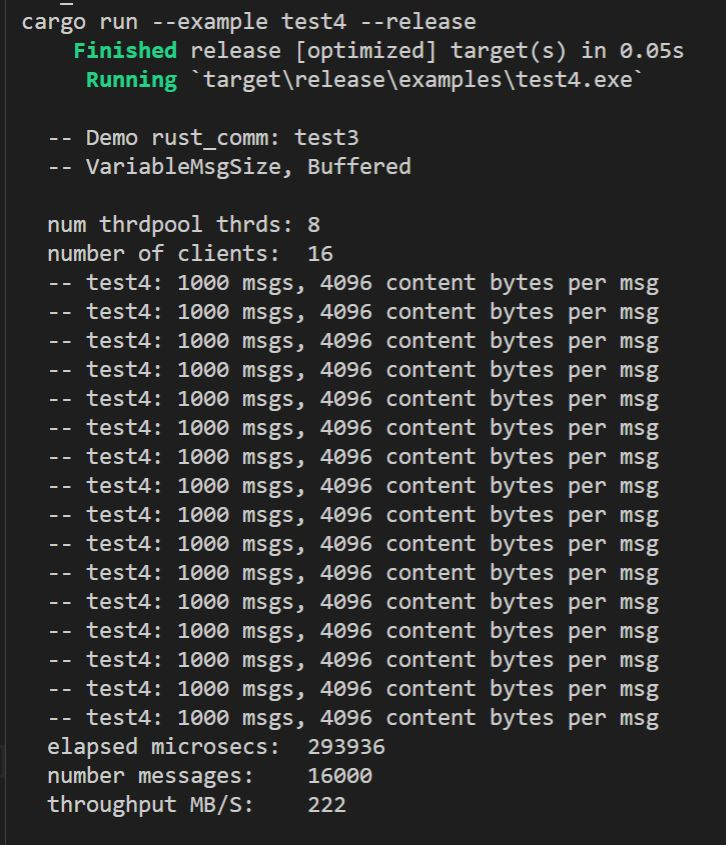
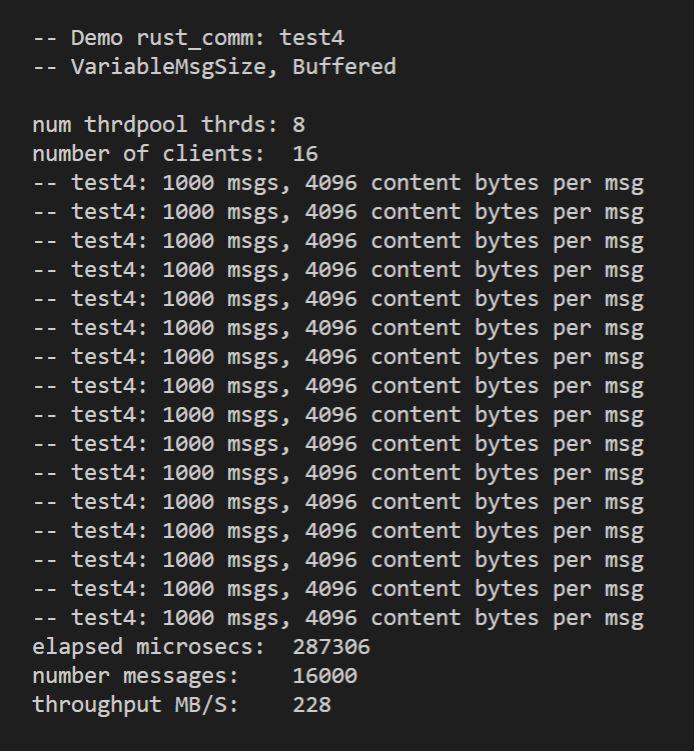
changed style in IndexPage and changed image in CommExper

Changed region(s): [[0.0303, 0.1531, 0.938, 0.98], [0.0303, 0.0, 0.938, 0.1225]]

diff --git a/Resources/BuildOn/css/StylesRustTheme.css b/Resources/BuildOn/css/StylesRustTheme.css
@@ -29,16 +29,15 @@
   background-color: #fef9ee;
   color: #5c2107;
 }
-#github light-item {
+/*#github light-item {*/
   /*display: inline-flex;
   flex-direction: row;
   flex-wrap: wrap;*/
-  background-color: #fef9ee;
+  /*background-color: #fef9ee;
   color: #5c2107;
   padding: 3px 10px;
   border: 1px solid #5c2107;
-
-}
+}*/
 #github .dark {
   background-color: #5c2107;
   color: #fef9ee;
@@ -64,15 +63,15 @@
 
 #github num-cont { color: #5c2107; }
 
-#github dark-item {
+/*#github dark-item {*/
   /*display: inline-flex;
   flex-direction: row;
   flex-wrap: wrap;*/
-  background-color: #5c2107;
+  /*background-color: #5c2107;
   color: #fef9ee;
   padding: 3px 10px;
   border: 1px solid #fafaff;
-}
+}*/
 
 #github .raised {
   box-shadow: 3px 3px 5px #6a432d;

diff --git a/Resources/BuildOn/Step0.html b/Resources/BuildOn/Step0.html
@@ -205,7 +205,7 @@
      <grid-footer class="light">
        <footer-wrapper>
          <footer-left class="dark" onclick="togglemenus()">
-           &nbsp;toggle&nbsp;menus&nbsp;
+           &nbsp;toggle&nbsp;menu&nbsp;
          </footer-left>
          <footer-right id="sects" style="display:flex; padding:0em 1em;">
            <ul>

diff --git a/IndexPage.html b/IndexPage.html
@@ -87,7 +87,7 @@
     <a href="RustStory_References.html">Rust References</a>
   </div>
   <div class="indent">
-    <table>
+    <table style="width:100%;">
       <tr>
         <th class="darkItem">Term</th>
         <th class="darkItem">Definition</th>
